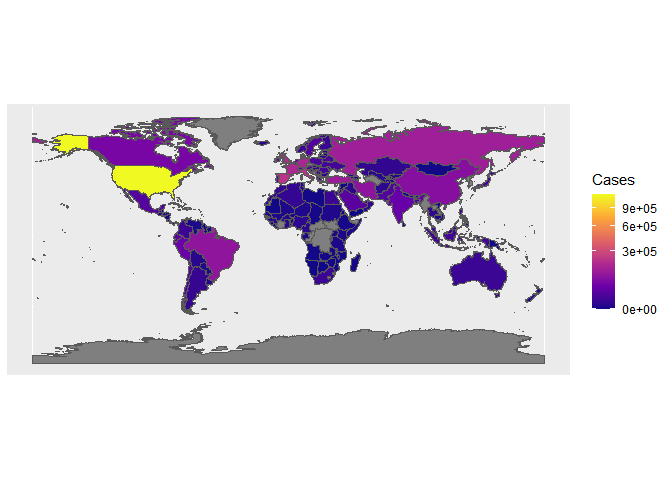
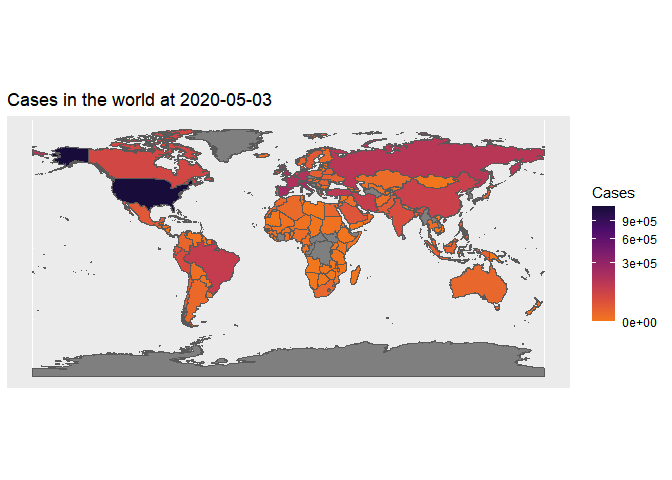
The map of README is updated.

Changed region(s): [[0.0, 0.1875, 0.8125, 0.8125], [0.875, 0.3438, 1.0, 0.6875], [0.7812, 0.5938, 0.8125, 0.6562]]

diff --git a/README.md b/README.md
@@ -21,7 +21,7 @@ You can install the development version from
 options(warn=-1)
 # install.packages("devtools")
 devtools::install_github("alibalapour/CovidPlot19")
-#> Skipping install of 'CovidPlot19' from a github remote, the SHA1 (fedf8578) has not changed since last install.
+#> Skipping install of 'CovidPlot19' from a github remote, the SHA1 (c9ec7fd3) has not changed since last install.
 #>   Use `force = TRUE` to force installation
 ```
 
@@ -32,27 +32,30 @@ This is a basic example which shows you how to solve a common problem:
 ``` r
 df <- suppressWarnings(suppressMessages(CovidPlot19::getData()))
 head(df, 20)
-#>     X     Country       Date Cases Deaths DailyCases DailyDeaths
-#> 1   1  Azerbaijan 2020-02-28     1      0          0           0
-#> 2   2 Afghanistan 2020-02-24     1      0          0           0
-#> 3   3 Afghanistan 2020-02-25     1      0          0           0
-#> 4   4 Afghanistan 2020-02-26     1      0          0           0
-#> 5   5 Afghanistan 2020-02-27     1      0          0           0
-#> 6   6 Afghanistan 2020-02-28     1      0          0           0
-#> 7   7 Afghanistan 2020-02-29     1      0          0           0
-#> 8   8 Afghanistan 2020-03-01     1      0          0           0
-#> 9   9 Afghanistan 2020-03-02     1      0          0           0
-#> 10 10 Afghanistan 2020-03-03     2      0          1           0
-#> 11 11 Afghanistan 2020-03-04     4      0          2           0
-#> 12 12 Afghanistan 2020-03-05     4      0          0           0
-#> 13 13 Afghanistan 2020-03-06     4      0          0           0
-#> 14 14 Afghanistan 2020-03-07     4      0          0           0
-#> 15 15 Afghanistan 2020-03-08     5      0          1           0
-#> 16 16 Afghanistan 2020-03-09     7      0          2           0
-#> 17 17 Afghanistan 2020-03-10     8      0          1           0
-#> 18 18 Afghanistan 2020-03-11    11      0          3           0
-#> 19 19 Afghanistan 2020-03-12    12      0          1           0
-#> 20 20 Afghanistan 2020-03-13    13      0          1           0
+#> # A tibble: 20 x 6
+#> # Groups:   Country [2]
+#>    Country       Date       Cases Deaths DailyCases DailyDeaths
+#>    <chr>         <date>     <dbl>  <dbl>      <dbl>       <dbl>
+#>  1 " Azerbaijan" 2020-02-28     1      0          0           0
+#>  2 "Afghanistan" 2020-02-24     1      0          0           0
+#>  3 "Afghanistan" 2020-02-25     1      0          0           0
+#>  4 "Afghanistan" 2020-02-26     1      0          0           0
+#>  5 "Afghanistan" 2020-02-27     1      0          0           0
+#>  6 "Afghanistan" 2020-02-28     1      0          0           0
+#>  7 "Afghanistan" 2020-02-29     1      0          0           0
+#>  8 "Afghanistan" 2020-03-01     1      0          0           0
+#>  9 "Afghanistan" 2020-03-02     1      0          0           0
+#> 10 "Afghanistan" 2020-03-03     2      0          1           0
+#> 11 "Afghanistan" 2020-03-04     4      0          2           0
+#> 12 "Afghanistan" 2020-03-05     4      0          0           0
+#> 13 "Afghanistan" 2020-03-06     4      0          0           0
+#> 14 "Afghanistan" 2020-03-07     4      0          0           0
+#> 15 "Afghanistan" 2020-03-08     5      0          1           0
+#> 16 "Afghanistan" 2020-03-09     7      0          2           0
+#> 17 "Afghanistan" 2020-03-10     8      0          1           0
+#> 18 "Afghanistan" 2020-03-11    11      0          3           0
+#> 19 "Afghanistan" 2020-03-12    12      0          1           0
+#> 20 "Afghanistan" 2020-03-13    13      0          1           0
 ```
 
 ``` r
